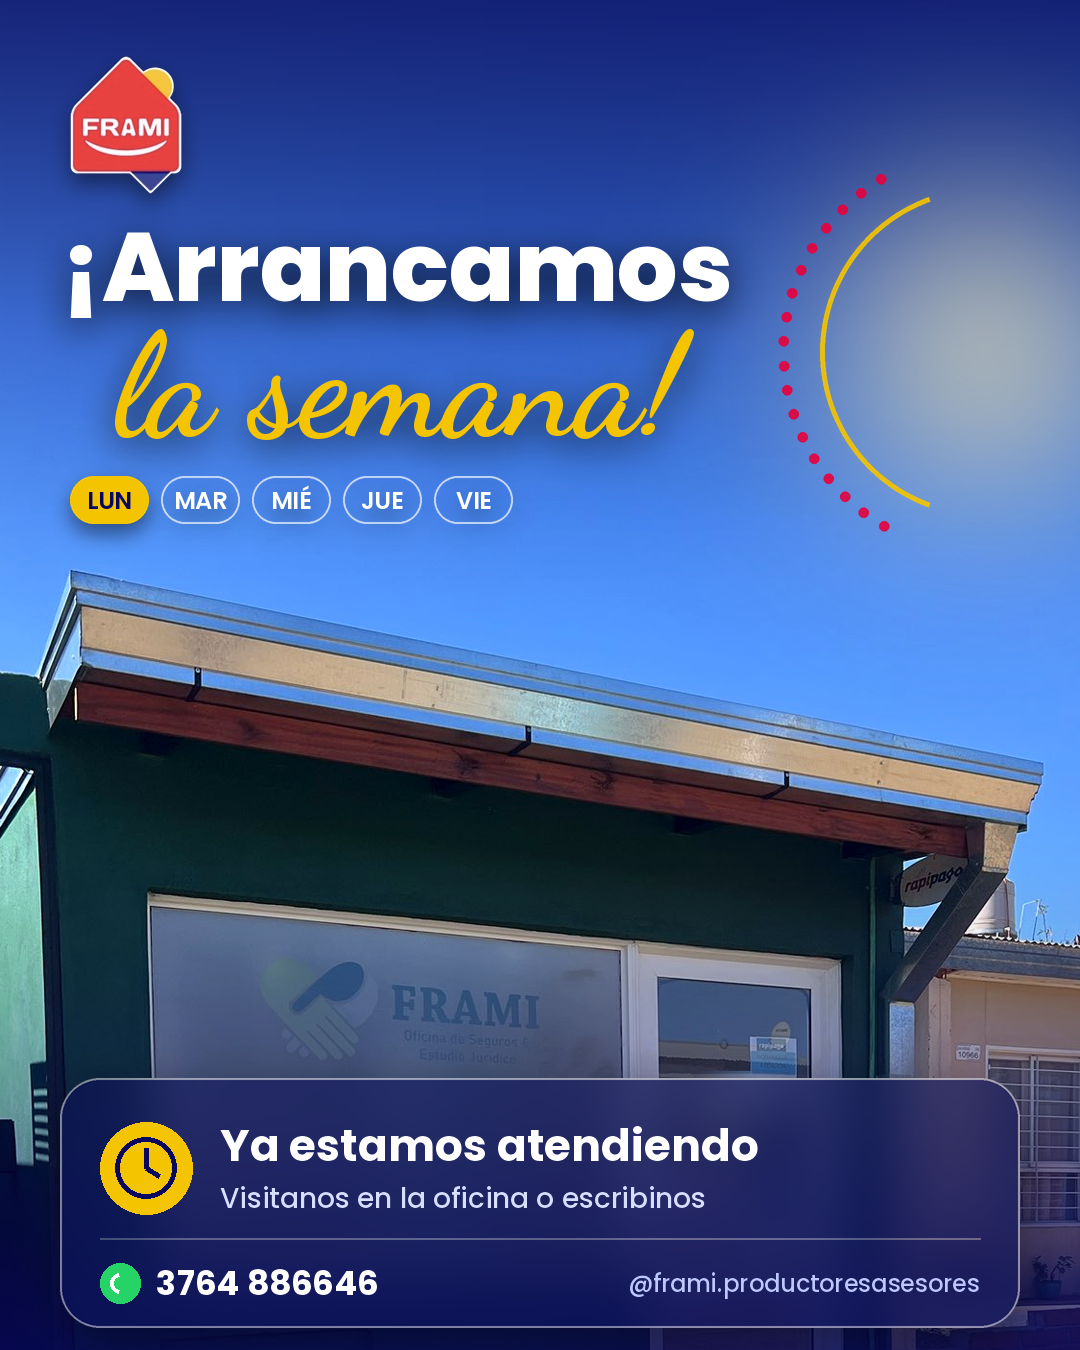
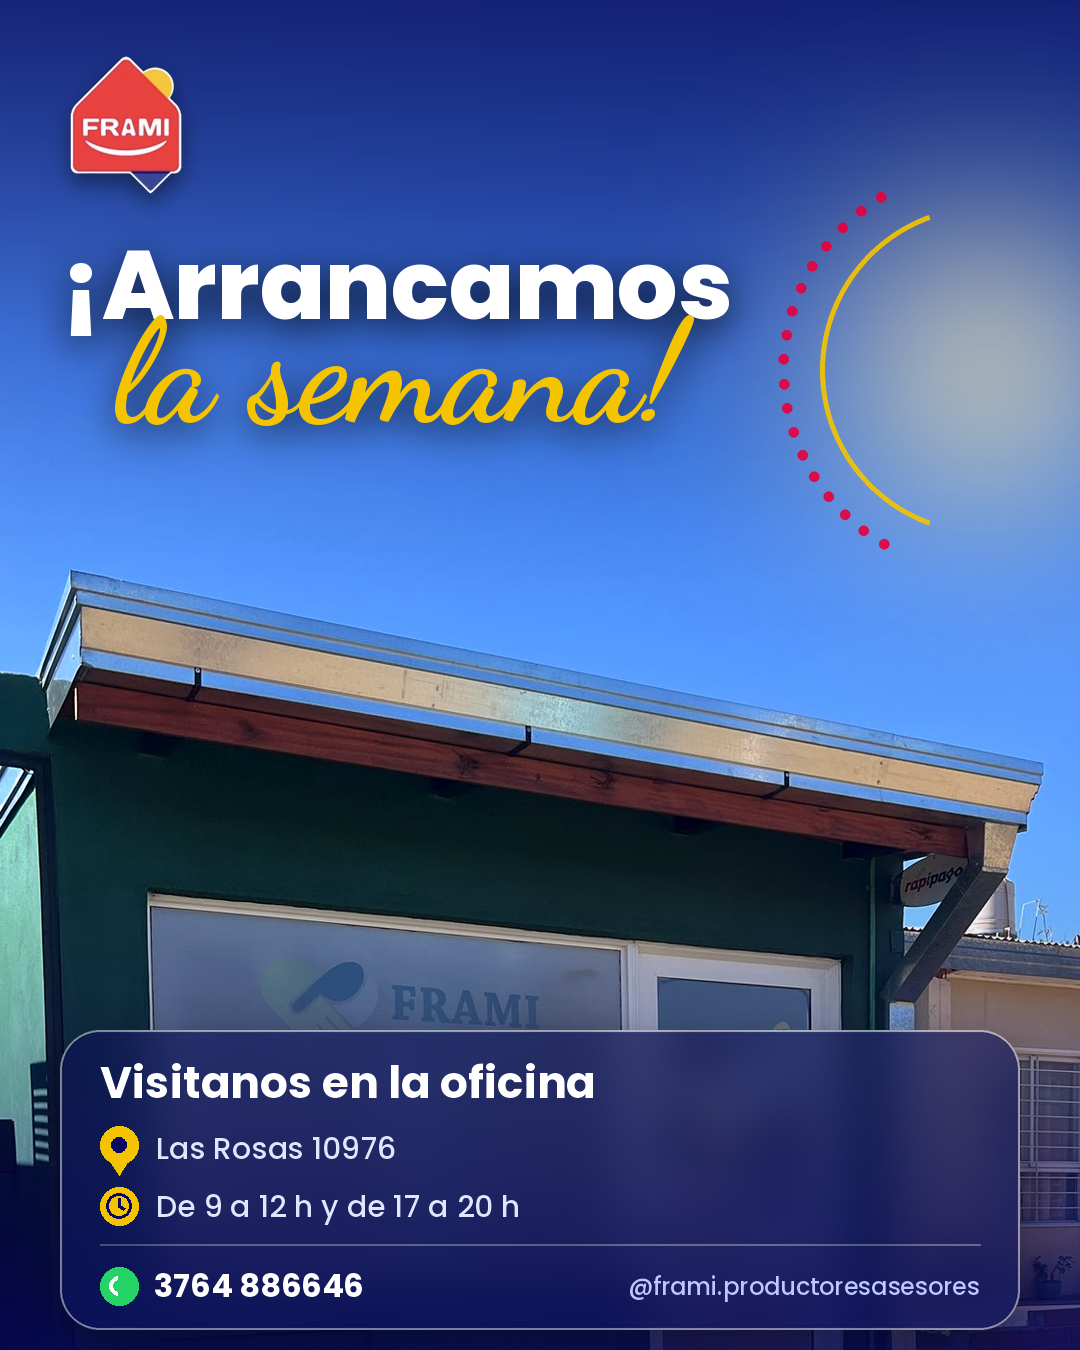
FRAMI semana (oficina): dirección y horario de atención
Las Rosas 10976 · de 9 a 12 h y de 17 a 20 h. Regenera feed e historia.

Claude-Session: https://claude.ai/code/session_01LwLBALHK691SuGhtfAj2Jn

diff --git a/frami/semana/flyer_semana_oficina.py b/frami/semana/flyer_semana_oficina.py
@@ -28,8 +28,8 @@ CARTEL_CERRADO = (724, 772, 782, 816)   # caja del cartel "Cerrado" en la foto o
 ANCHO_UTIL = 1125                        # a la derecha está la bandera de Rapipago
 DIAS = ["LUN", "MAR", "MIÉ", "JUE", "VIE"]
 WHATSAPP = "3764 886646"
-DIRECCION = "[DIRECCIÓN]"     # completar con la dirección de la oficina
-HORARIO = "[HORARIO]"         # completar con el horario de atención
+DIRECCION = "Las Rosas 10976"
+HORARIO = "De 9 a 12 h y de 17 a 20 h"
 USUARIO = "@frami.productoresasesores"
 
 
